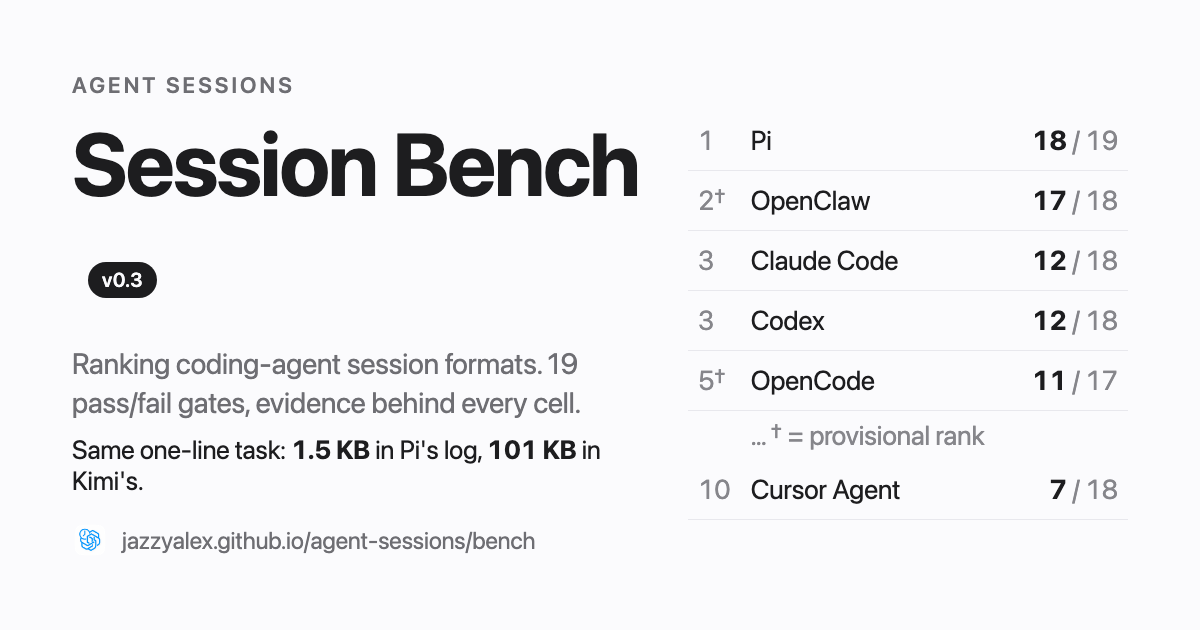
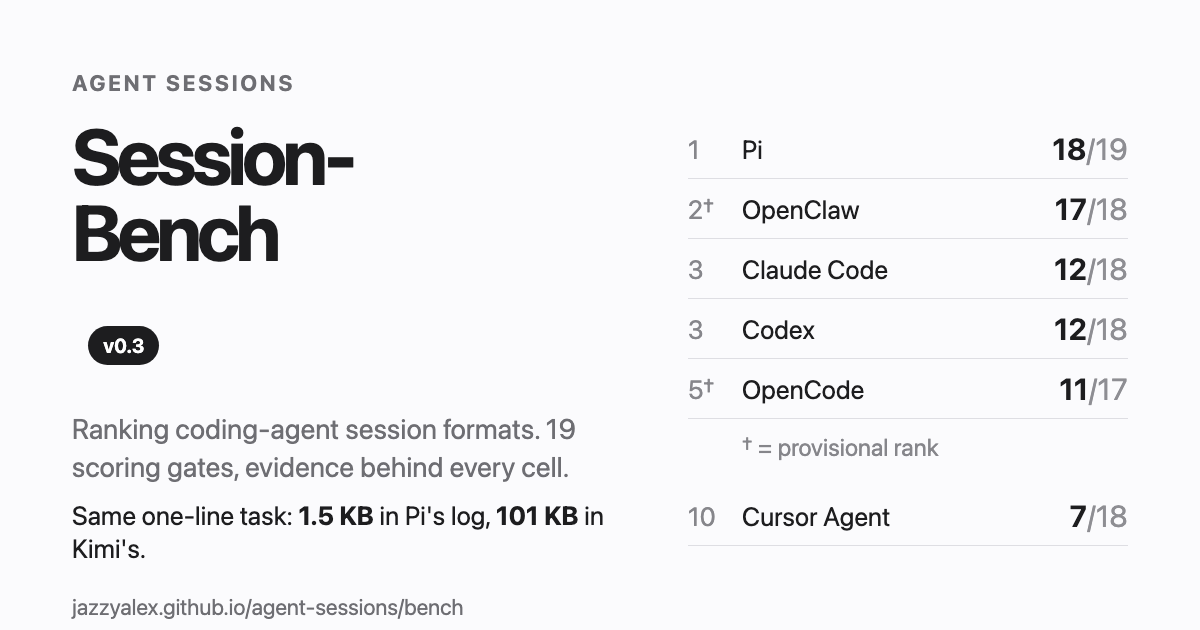
docs: adopt Session-Bench brand
Tool: Codex
Model: gpt-5.6-sol
Why: Apply the official hyphenated benchmark name across the site, article, evidence tooling, and public graphics.

diff --git a/scripts/session_bench/measure.py b/scripts/session_bench/measure.py
@@ -1,5 +1,5 @@
 #!/usr/bin/env python3
-"""Session Bench measurement extractor.
+"""Session-Bench measurement extractor.
 
 Given a session artifact, recompute the numbers the manifest records:
 physical bytes, record count, largest single record, and (for JSONL) the

diff --git a/scripts/session_bench/evaluate.py b/scripts/session_bench/evaluate.py
@@ -1,5 +1,5 @@
 #!/usr/bin/env python3
-"""Session Bench evaluator.
+"""Session-Bench evaluator.
 
 Reads a measurements manifest (probe + corpus numbers) and the manual-gate
 checklist, computes the Signal gates from thresholds, merges verdicts, and

diff --git a/docs/_posts/2026-08-07-session-bench-launch.md b/docs/_posts/2026-08-07-session-bench-launch.md
@@ -1,6 +1,6 @@
 ---
 layout: post
-title: "Session Bench: 19 pass/fail gates for coding-agent session formats"
+title: "Session-Bench: 19 pass/fail gates for coding-agent session formats"
 description: "We scored what ten coding agents write to disk — signal density, completeness, stability, openness, tooling cost. Pass, fail, or not run; no partial credit. Pi tops it. Cursor comes last. Pi documents its format properly; most still don't."
 date: 2026-08-07
 last_modified_at: 2026-08-12
@@ -25,9 +25,9 @@ formats.
 
 Opinions about that are cheap, so we turned ours into a benchmark — of
 the layer existing benchmarks skip. SWE-bench measures whether the agent
-completed the work; Session Bench measures what the harness preserved
+completed the work; Session-Bench measures what the harness preserved
 after the work was done.
-**[Session Bench]({{ '/bench/' | relative_url }})** scores the session
+**[Session-Bench]({{ '/bench/' | relative_url }})** scores the session
 format of every harness we support on nineteen scored pass/fail gates
 across five areas: signal density, completeness, stability, openness, and
 tooling cost. No partial credit, no vibes; a gate is pass, fail, or
@@ -41,13 +41,13 @@ stated plainly: the bench measures each harness's CLI session store; desktop and
 IDE surfaces can differ and get their own rows in a future version.
 
 <figure class="post-figure bench-poster-figure">
-  <a href="{{ '/assets/session-bench-poster.png' | relative_url }}" title="Open the full-resolution Session Bench poster">
+  <a href="{{ '/assets/session-bench-poster.png' | relative_url }}" title="Open the full-resolution Session-Bench poster">
     <img src="{{ '/assets/session-bench-poster.png' | relative_url }}"
          width="1024" height="1536"
-         alt="Session Bench v0.3 poster ranking ten CLI coding-agent session formats across nineteen scoring gates"
+         alt="Session-Bench v0.3 poster ranking ten CLI coding-agent session formats across nineteen scoring gates"
          loading="eager">
   </a>
-  <figcaption>Session Bench v0.3 at a glance. Open the image for the full-resolution poster.</figcaption>
+  <figcaption>Session-Bench v0.3 at a glance. Open the image for the full-resolution poster.</figcaption>
 </figure>
 
 ## The v0.3 leaderboard
@@ -91,7 +91,7 @@ exactly that.
 </style>
 <svg viewBox="0 0 720 396" role="img" aria-label="Bar chart: bytes written for the identical one-line task, by agent. OpenCode 274 KB as a fresh database file, Kimi 101 KB, Codex 78 KB, Copilot 67 KB, Claude Code 40 KB, Antigravity 6.8 KB, Cursor 1.9 KB, Pi 1.5 KB.">
   <text x="12" y="20" font-size="14" font-weight="600" fill="var(--viz-ink)">Bytes on disk for the identical one-line task</text>
-  <text x="12" y="38" font-size="12" fill="var(--viz-ink2)">The Session Bench probe prompt — measured 2026-08-04</text>
+  <text x="12" y="38" font-size="12" fill="var(--viz-ink2)">The Session-Bench probe prompt — measured 2026-08-04</text>
   <line x1="140" y1="52" x2="140" y2="356" stroke="var(--viz-axis)" stroke-width="1"/>
   <g font-size="12.5">
     <text x="132" y="72" text-anchor="end" fill="var(--viz-ink)">OpenCode</text>

diff --git a/docs/bench/index.md b/docs/bench/index.md
@@ -1,16 +1,16 @@
 ---
 layout: blog
-title: "Session Bench — the coding-agent session-format benchmark"
-description: "Session Bench measures whether coding-agent harnesses preserve a useful, inspectable, and portable record of their work. SWE-bench measures whether the agent completed the work; Session Bench measures what the harness preserved after it was done."
+title: "Session-Bench — the coding-agent session-format benchmark"
+description: "Session-Bench measures whether coding-agent harnesses preserve a useful, inspectable, and portable record of their work. SWE-bench measures whether the agent completed the work; Session-Bench measures what the harness preserved after it was done."
 permalink: /bench/
 image: /assets/bench-social-card.png
 ---
 <p class="eyebrow">Agent Sessions</p>
-<h1>Session Bench</h1>
-<p class="lede">Session Bench measures whether coding-agent harnesses
+<h1>Session-Bench</h1>
+<p class="lede">Session-Bench measures whether coding-agent harnesses
 preserve a useful, inspectable, and portable record of their work — the
 session files they write to disk. SWE-bench measures whether the agent
-completed the work; Session Bench measures what the harness preserved
+completed the work; Session-Bench measures what the harness preserved
 after the work was done. Nineteen scored pass/fail gates across five
 areas, each backed by a measurement, a fixture, or a monitoring-ledger
 entry. No partial credit: a gate is pass, fail, or explicitly
@@ -96,12 +96,12 @@ tolerance) is defined but unscored pending a real cross-harness
 truncation experiment.</p>
 
 <details class="bench-poster">
-  <summary>View or download the Session Bench v0.3 poster</summary>
+  <summary>View or download the Session-Bench v0.3 poster</summary>
   <figure>
-    <a href="{{ '/assets/session-bench-poster.png' | relative_url }}" title="Open the full-resolution Session Bench poster">
+    <a href="{{ '/assets/session-bench-poster.png' | relative_url }}" title="Open the full-resolution Session-Bench poster">
       <img src="{{ '/assets/session-bench-poster.png' | relative_url }}"
            width="1024" height="1536"
-           alt="Session Bench v0.3 poster ranking ten CLI coding-agent session formats across nineteen scoring gates"
+           alt="Session-Bench v0.3 poster ranking ten CLI coding-agent session formats across nineteen scoring gates"
            loading="lazy">
     </a>
     <figcaption class="bench-note">Open the image for the full-resolution 1024 × 1536 poster.</figcaption>

diff --git a/README.md b/README.md
@@ -12,7 +12,7 @@
 **Live per-session quota burn for Codex and Claude — see *which* session is eating your 5-hour and weekly limits, priced per model.**
 Plus a searchable history across [Codex](https://jazzyalex.github.io/agent-sessions/guides/codex-local-history.html?campaign=github&ref=readme-guide), [Claude](https://jazzyalex.github.io/agent-sessions/guides/claude-code-jsonl-history.html?campaign=github&ref=readme-guide), [OpenCode](https://jazzyalex.github.io/agent-sessions/guides/opencode-sqlite-history.html?campaign=github&ref=readme-guide), [Cursor](https://jazzyalex.github.io/agent-sessions/guides/cursor-agent-local-history.html?campaign=github&ref=readme-guide), GitHub Copilot CLI, Pi, Kimi Code, Grok CLI, Antigravity CLI, [Hermes](https://jazzyalex.github.io/agent-sessions/guides/hermes-agent-state-db-history.html?campaign=github&ref=readme-guide), and [OpenClaw](https://jazzyalex.github.io/agent-sessions/guides/openclaw-local-agent-history.html?campaign=github&ref=readme-guide) — transcripts, images, and one-click resume. macOS, local-only.
 
-[**Session Bench**](https://jazzyalex.github.io/agent-sessions/bench/?campaign=github&ref=readme): how ten agents' session formats score — 19 pass/fail gates, evidence behind every cell.
+[**Session-Bench**](https://jazzyalex.github.io/agent-sessions/bench/?campaign=github&ref=readme): how ten agents' session formats score — 19 pass/fail gates, evidence behind every cell.
 
 </td>
 </tr>
@@ -222,4 +222,3 @@ Contributing:
 ## License
 
 MIT. See `LICENSE`.
-

diff --git a/docs/CHANGELOG.md b/docs/CHANGELOG.md
@@ -5,7 +5,7 @@ All notable changes to this project will be documented in this file.
 ## [Unreleased]
 
 ### Improvements
-- **Session Bench now includes a shareable v0.3 poster.** The launch article shows the full leaderboard graphic, while the benchmark page keeps it available in a compact download section beneath the scored table.
+- **Session-Bench now includes a shareable v0.3 poster.** The launch article shows the full leaderboard graphic, while the benchmark page keeps it available in a compact download section beneath the scored table.
 
 ### Bug Fixes
 - **"Live sessions only" includes Claude Desktop chats.** Claude Desktop sessions have no terminal process for the usual live probes to find, so the filter could hide running Claude chats even though the Quota Meter saw their runway rows. The live session engine now synthesizes Claude Desktop presences from the same runway identities, preserving active/idle state and avoiding duplicates when a transcript is already claimed by another probe. The approach — Claude Desktop chats as first-class live presences — came from @Krazycatt in [#51](https://github.com/jazzyalex/agent-sessions/pull/51); my thanks.

diff --git a/docs/_posts/2026-07-14-how-coding-agents-remember.md b/docs/_posts/2026-07-14-how-coding-agents-remember.md
@@ -285,7 +285,7 @@ renames a field. For files this valuable, that is a strange industry norm.
 storage layout and persisted event types, and Hermes documents its
 persistence layers and stored fields — both existed when this was written
 and our search missed them. The claim holds for Claude Code, Codex, Cursor,
-and OpenCode. [Session Bench]({{ '/bench/' | relative_url }}) now tracks
+and OpenCode. [Session-Bench]({{ '/bench/' | relative_url }}) now tracks
 this per-harness, with links to each vendor's documentation.*
 
 ## What a session format should be
@@ -332,5 +332,5 @@ and never writes back. The measurement script and raw aggregates behind
 every number here are in the repo, and the companion post on the exact disk
 locations is [here]({% post_url 2026-07-11-where-agents-store-history %}).
 This field study later grew into a standing benchmark:
-[Session Bench]({{ '/bench/' | relative_url }}) now scores ten formats on
+[Session-Bench]({{ '/bench/' | relative_url }}) now scores ten formats on
 nineteen pass/fail gates, with the evidence behind every cell.

diff --git a/docs/summaries/2026-08.md b/docs/summaries/2026-08.md
@@ -1,6 +1,6 @@
 # August 2026
 
-- Added the Session Bench v0.3 leaderboard poster to the launch article and a compact download section on the benchmark page.
+- Added the Session-Bench v0.3 leaderboard poster to the launch article and a compact download section on the benchmark page.
 - The "Live sessions only" filter now keeps running Claude Desktop chats visible by reusing Claude Session Runway identities as live Desktop presences, including active/idle state and claimed transcript de-duplication.
 - Codex usage recovery now clears stale in-memory fetch cooldowns and retries silently before diagnosing an authentication problem, so upgrading a plan can refresh with the existing login instead of requiring an app restart or opening the Fix dialog.
 - The usage **Fix…** flow only presents `codex login` after a fresh request is authoritatively rejected.

diff --git a/docs/superpowers/plans/2026-08-07-bench-receipts-repo-CODEX-TASK.md b/docs/superpowers/plans/2026-08-07-bench-receipts-repo-CODEX-TASK.md
@@ -1,4 +1,4 @@
-# Codex task: Session Bench public receipts repo
+# Codex task: Session-Bench public receipts repo
 
 Owner: Alex (@jazzyalex). Prepared 2026-08-07 by Claude (main session).
 Model to copy: github.com/phuryn/experiments ("when a post claims a number,
@@ -8,7 +8,7 @@ layout, and especially its Anonymization section (rules as code).
 ## Goal
 
 A new public repo, **jazzyalex/session-bench**, holding the receipts behind
-Session Bench (live at jazzyalex.github.io/agent-sessions/bench/): redacted
+Session-Bench (live at jazzyalex.github.io/agent-sessions/bench/): redacted
 probe artifacts, measurement outputs, per-gate evidence, and the graphics —
 so every cell on the leaderboard has an inspectable receipt. The scoring
 engine stays in agent-sessions (scripts/session_bench/); this repo holds

diff --git a/docs/superpowers/specs/2026-08-04-session-bench-design.md b/docs/superpowers/specs/2026-08-04-session-bench-design.md
@@ -1,4 +1,4 @@
-# Session Bench — design (v1)
+# Session-Bench — design (v1)
 
 Date: 2026-08-04. REVISED after external review (Codex, 2026-08-05): scores
 are now GENERATED by scripts/session_bench/evaluate.py from
@@ -27,7 +27,7 @@ calls now (new since July) but still no outputs; OpenClaw carries full
 usage AND dollar cost; Codex world_state reaches 41.6 KB so S3 fails;
 Kimi usage.record has tokens only.
 
-**Session Bench** — ranking agent harnesses by what they write to disk.
+**Session-Bench** — ranking agent harnesses by what they write to disk.
 SWE-bench-flavored: binary pass/fail gates, no partial credit, rank = gates
 cleared. Every gate is either script-computed or a checklist item with a
 cited evidence source. Rubric + scripts versioned in this repo so grades are

diff --git a/docs/_posts/2026-07-11-where-agents-store-history.md b/docs/_posts/2026-07-11-where-agents-store-history.md
@@ -231,7 +231,7 @@ read-only and never writes back into them. For a measured look at what each of
 these formats actually *records* — verbosity, telemetry, how searchable it is —
 see the companion field study, [How coding agents remember]({% post_url 2026-07-14-how-coding-agents-remember %}).
 These formats now also have a standing scorecard:
-[Session Bench]({{ '/bench/' | relative_url }}) ranks ten of them on
+[Session-Bench]({{ '/bench/' | relative_url }}) ranks ten of them on
 nineteen pass/fail gates and re-scores when they drift.
 If you would rather not memorize six
 paths and two schema quirks, [the source is on

diff --git a/docs/superpowers/specs/2026-08-06-session-rescue-design.md b/docs/superpowers/specs/2026-08-06-session-rescue-design.md
@@ -251,7 +251,7 @@ In-app: one toggle, **Rescue**, on by default for Claude.
 hold the primary evidence: mtime-keyed `unlink()`, no trash, the `deleted_<uuid>` tombstones
 sitting on disk, the Desktop update wipe, the 6.3 GB corpus measurements, the compression numbers.
 "Anatomy of how Claude Code deletes your work" carries the feature as its closing CTA, not its
-headline. Sequence: ship week 1, publish week 2, return to Session Bench.
+headline. Sequence: ship week 1, publish week 2, return to Session-Bench.
 
 ## 9. Testing
 
